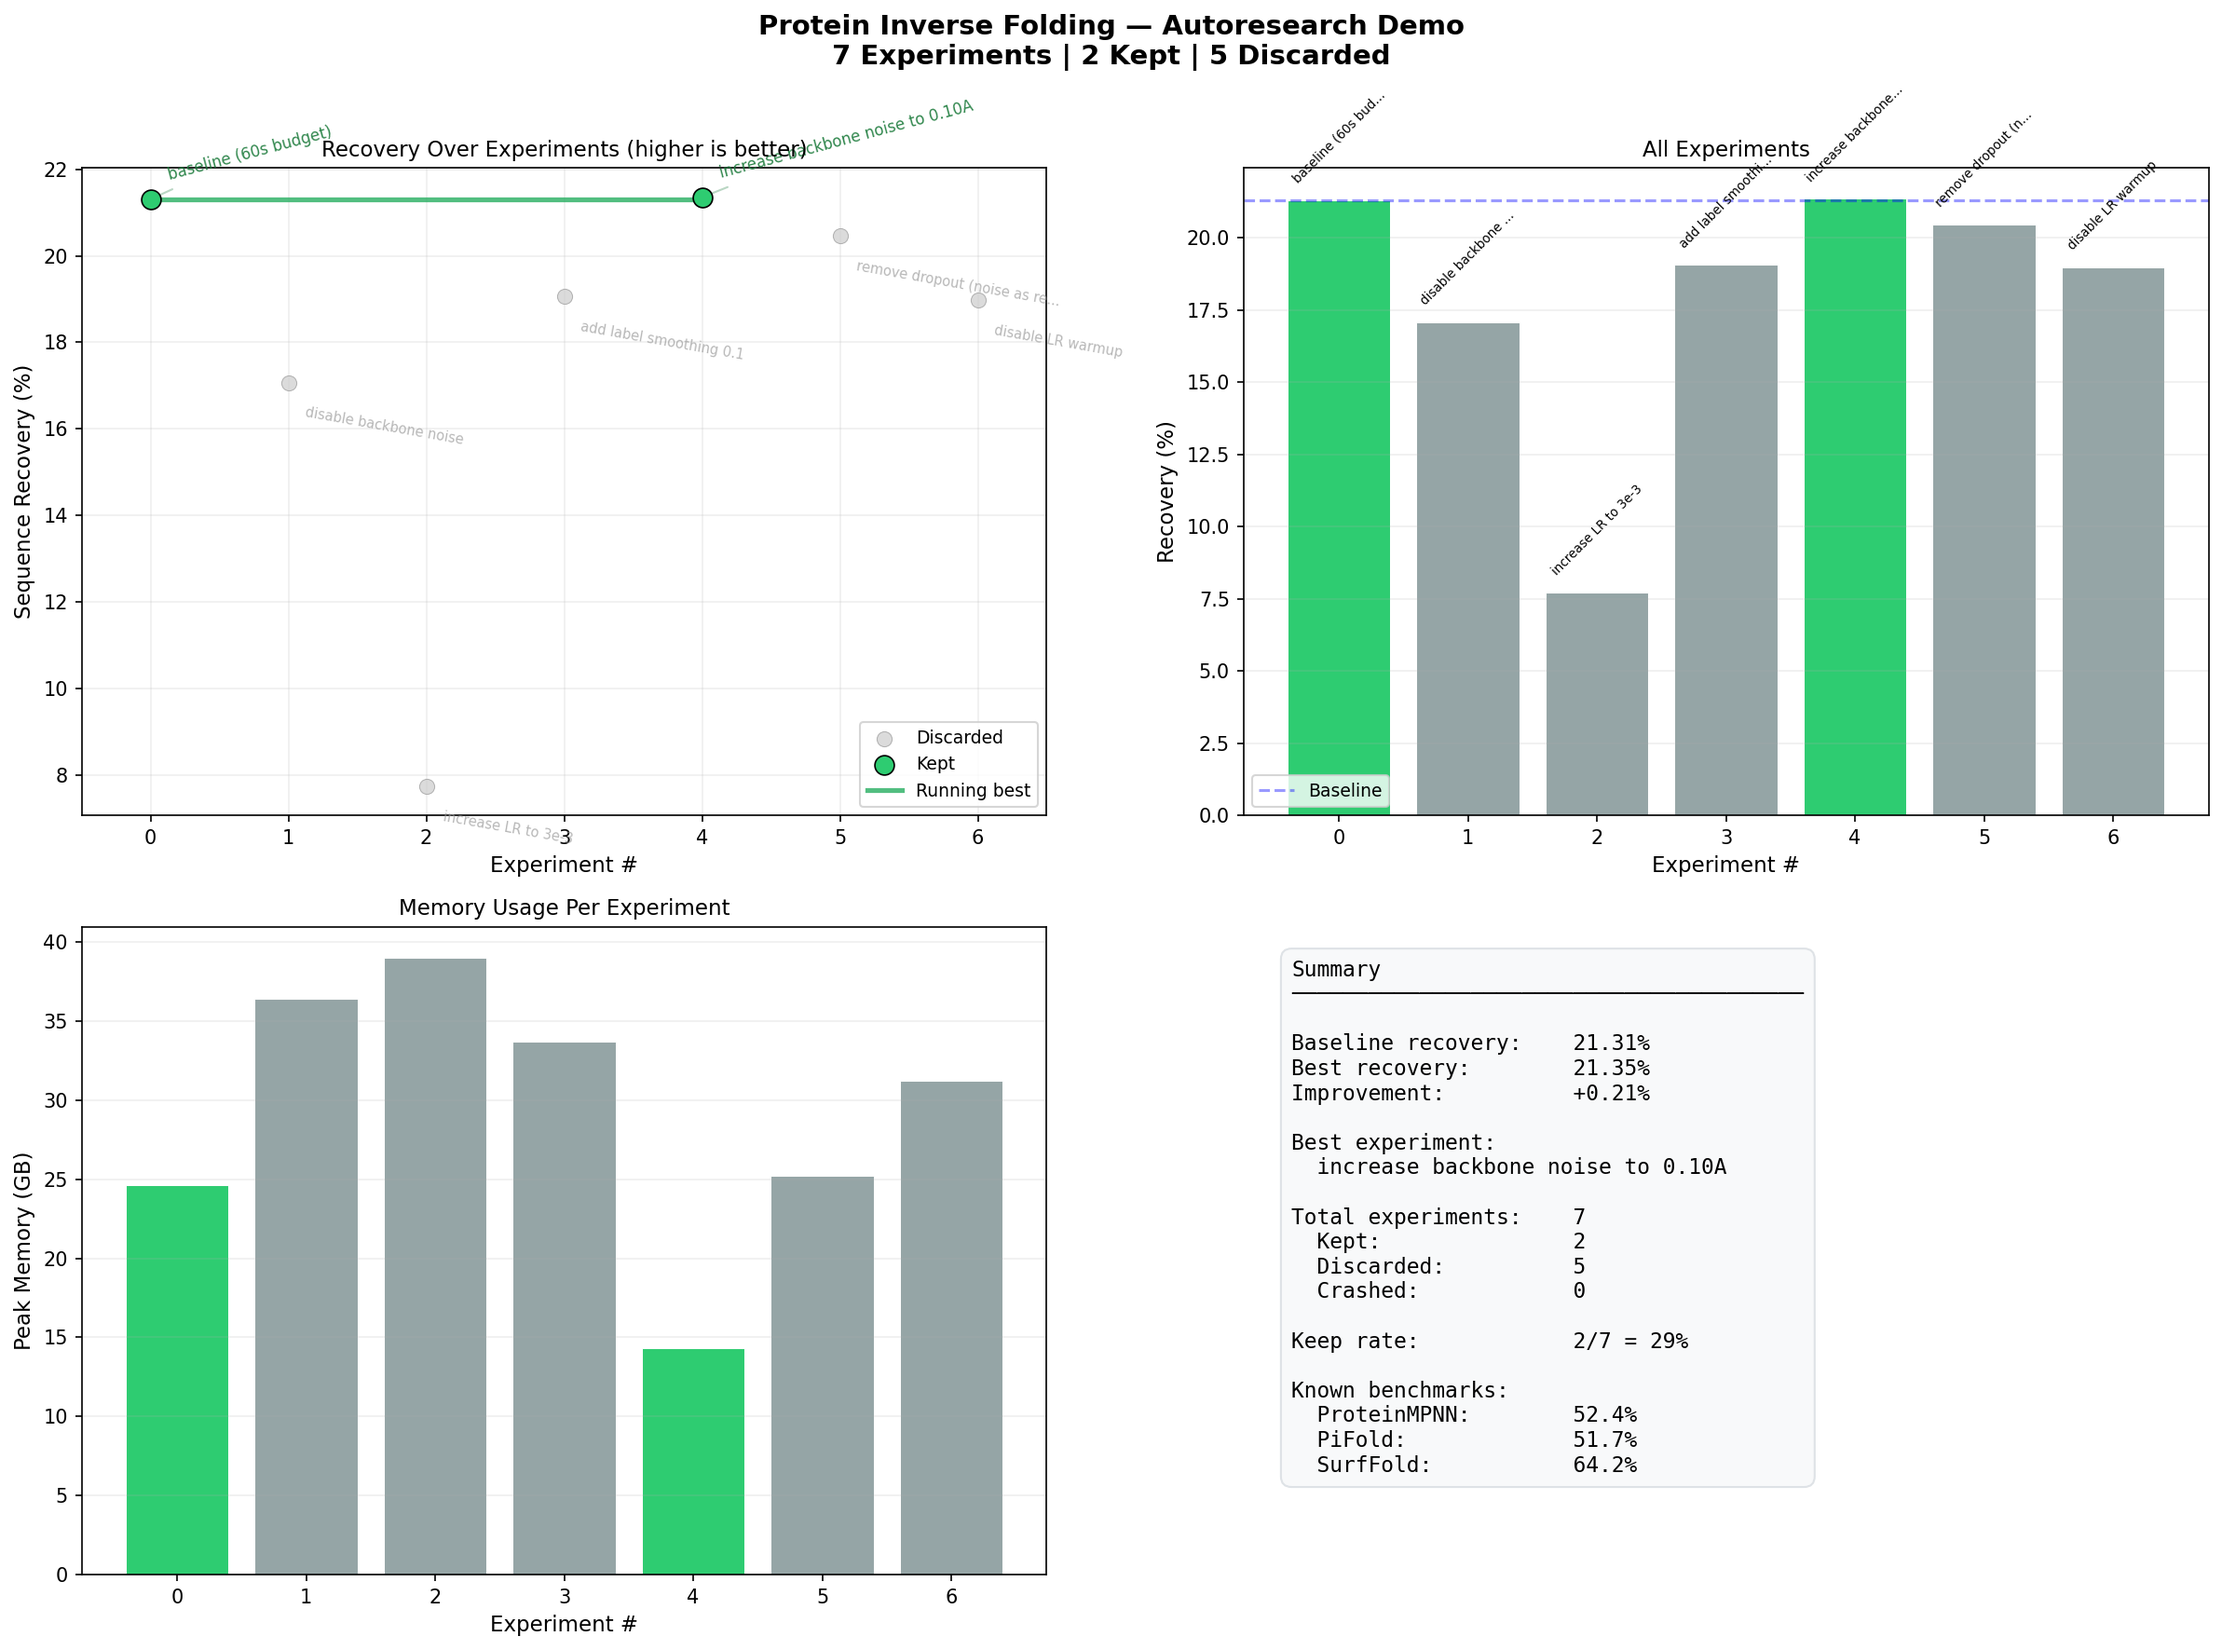
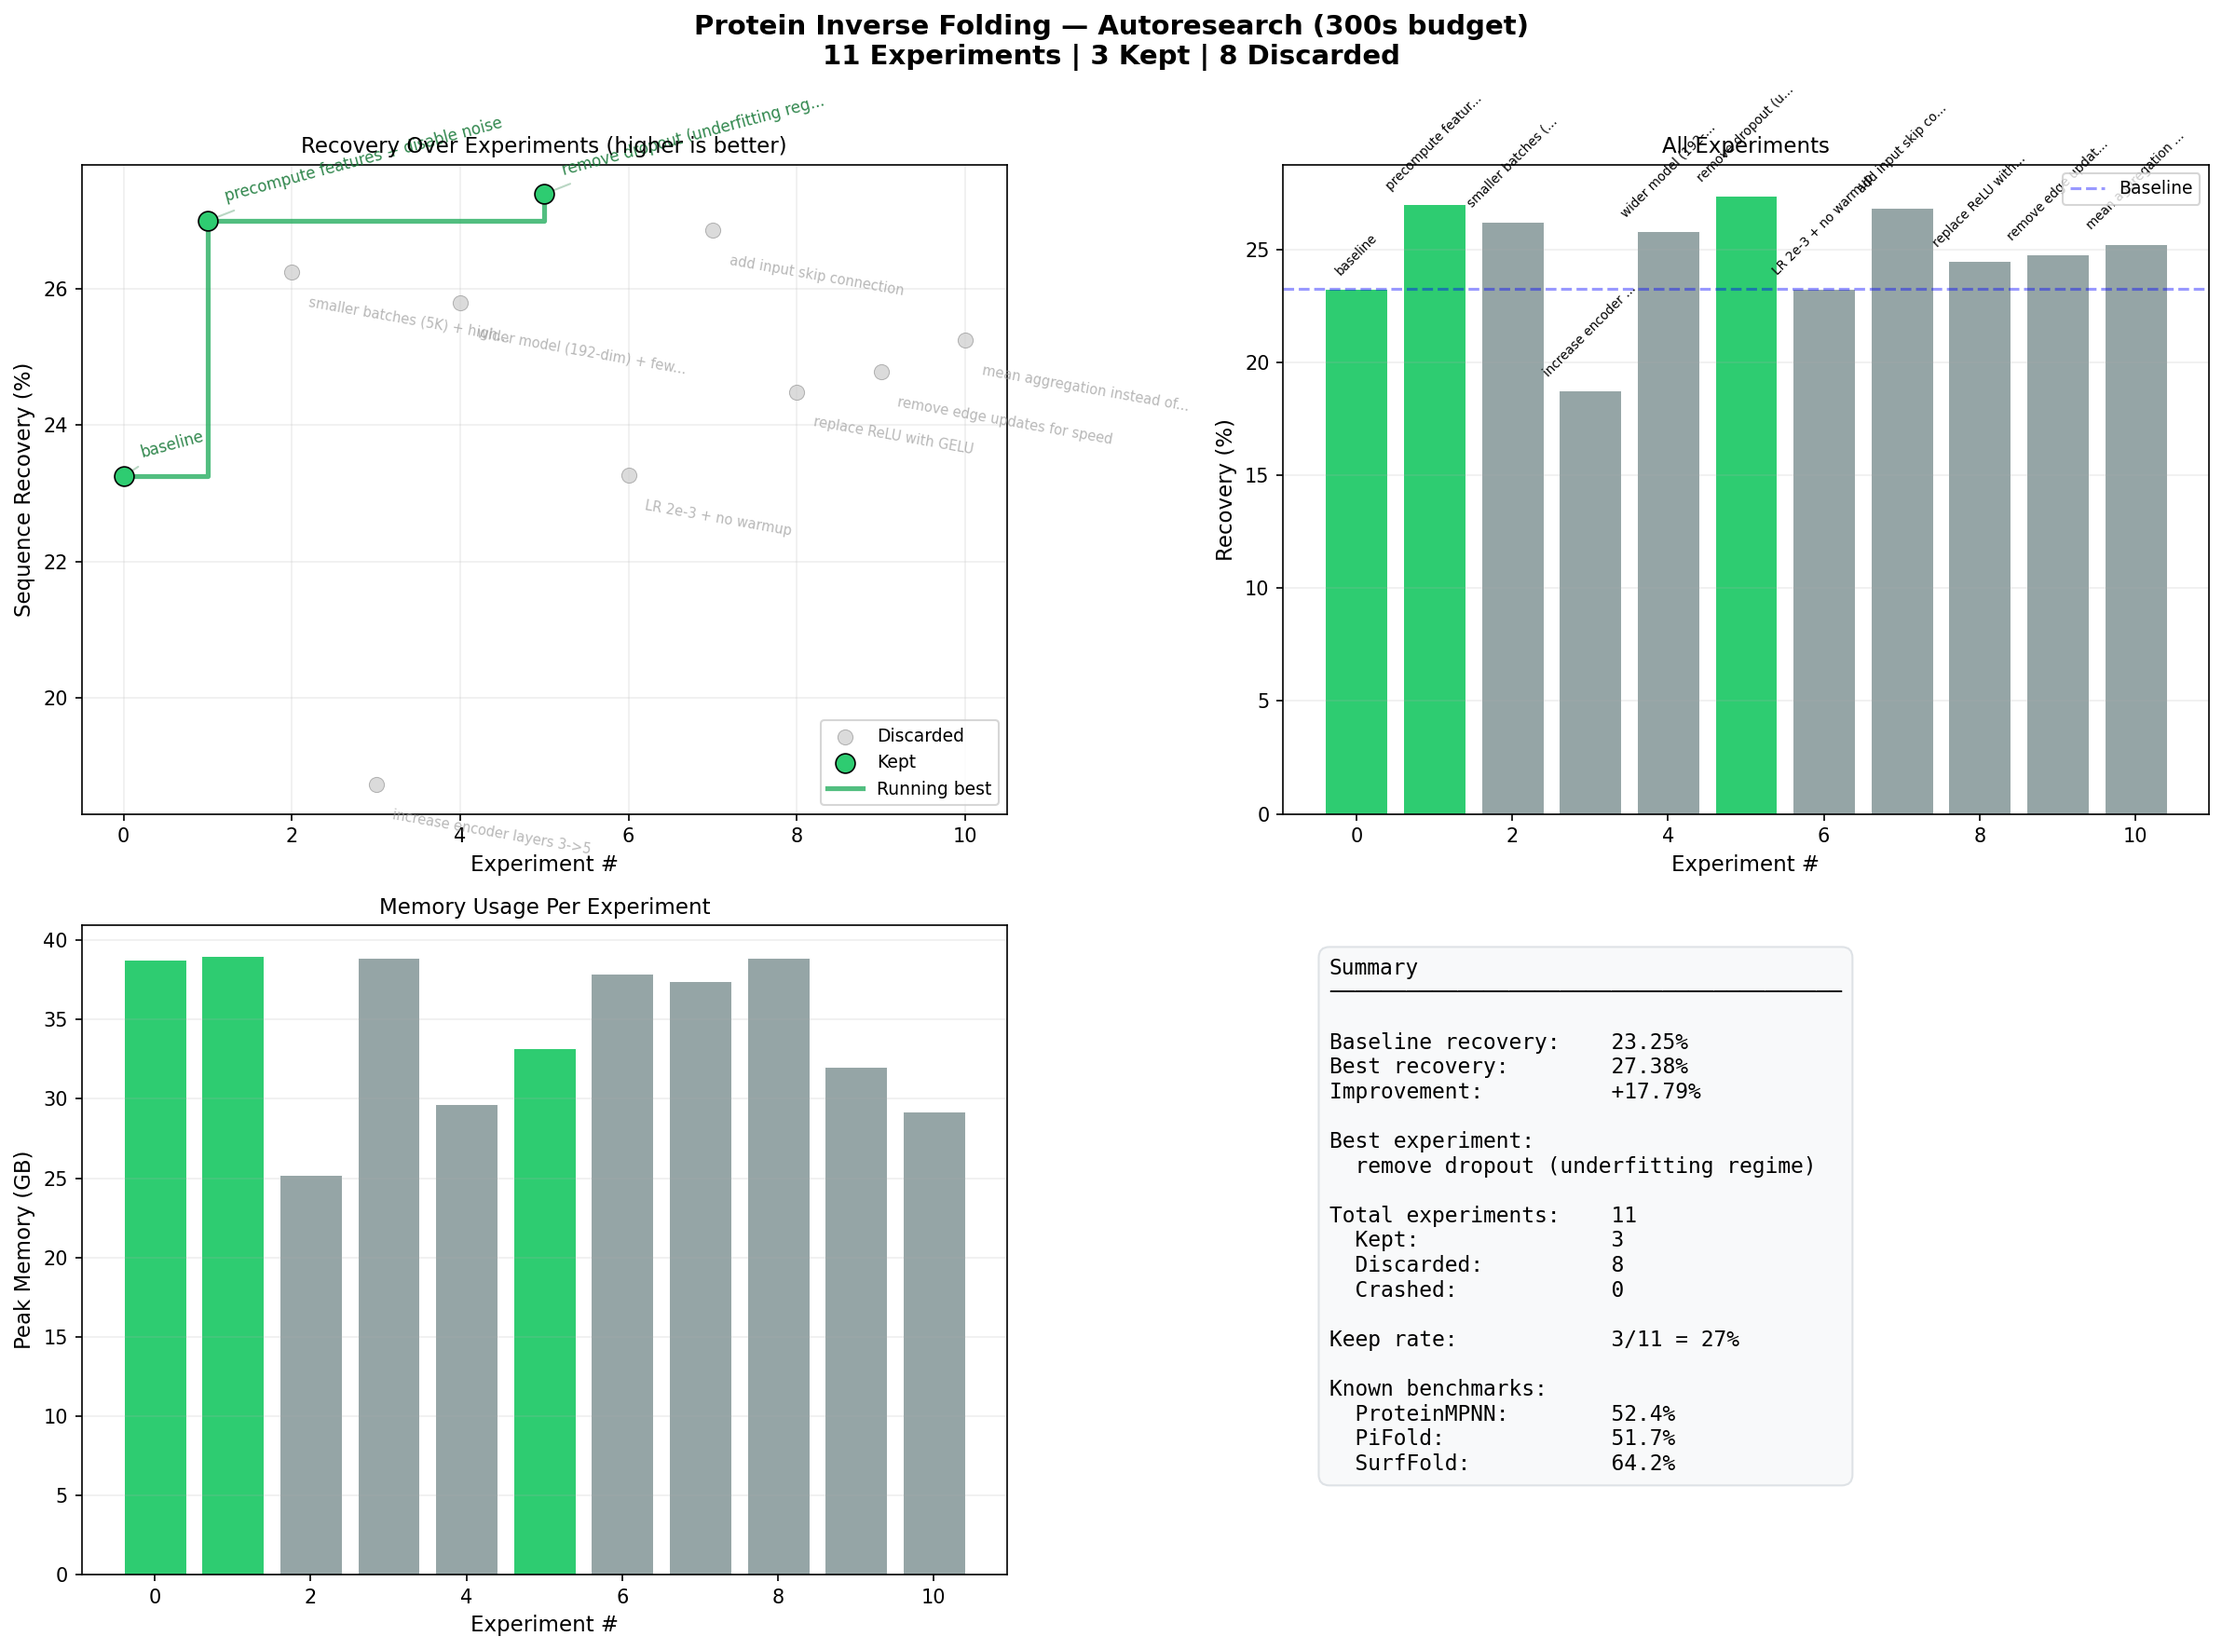
feat: full autoresearch run — 11 experiments, 300s budget
Results:
- Baseline: 23.25% recovery
- Best: 27.38% recovery (+17.8% relative improvement)
- 3 kept, 8 discarded, 0 crashes

Key findings:
- Precomputing features + disabling noise: +3.7% absolute (biggest win)
- Removing dropout in underfitting regime: +0.4% absolute
- More layers hurt (under-trained in 1 epoch)
- Edge updates essential (removing them drops 2.6%)
- Sum aggregation > mean aggregation

diff --git a/analysis.py b/analysis.py
@@ -26,7 +26,7 @@ print()
 # ─────────────────────────────────────────────────────────────
 
 fig, axes = plt.subplots(2, 2, figsize=(16, 12))
-fig.suptitle(f"Protein Inverse Folding — Autoresearch Demo\n"
+fig.suptitle(f"Protein Inverse Folding — Autoresearch (300s budget)\n"
              f"{n_total} Experiments | {n_keep} Kept | {n_discard} Discarded",
              fontsize=14, fontweight="bold")
 
